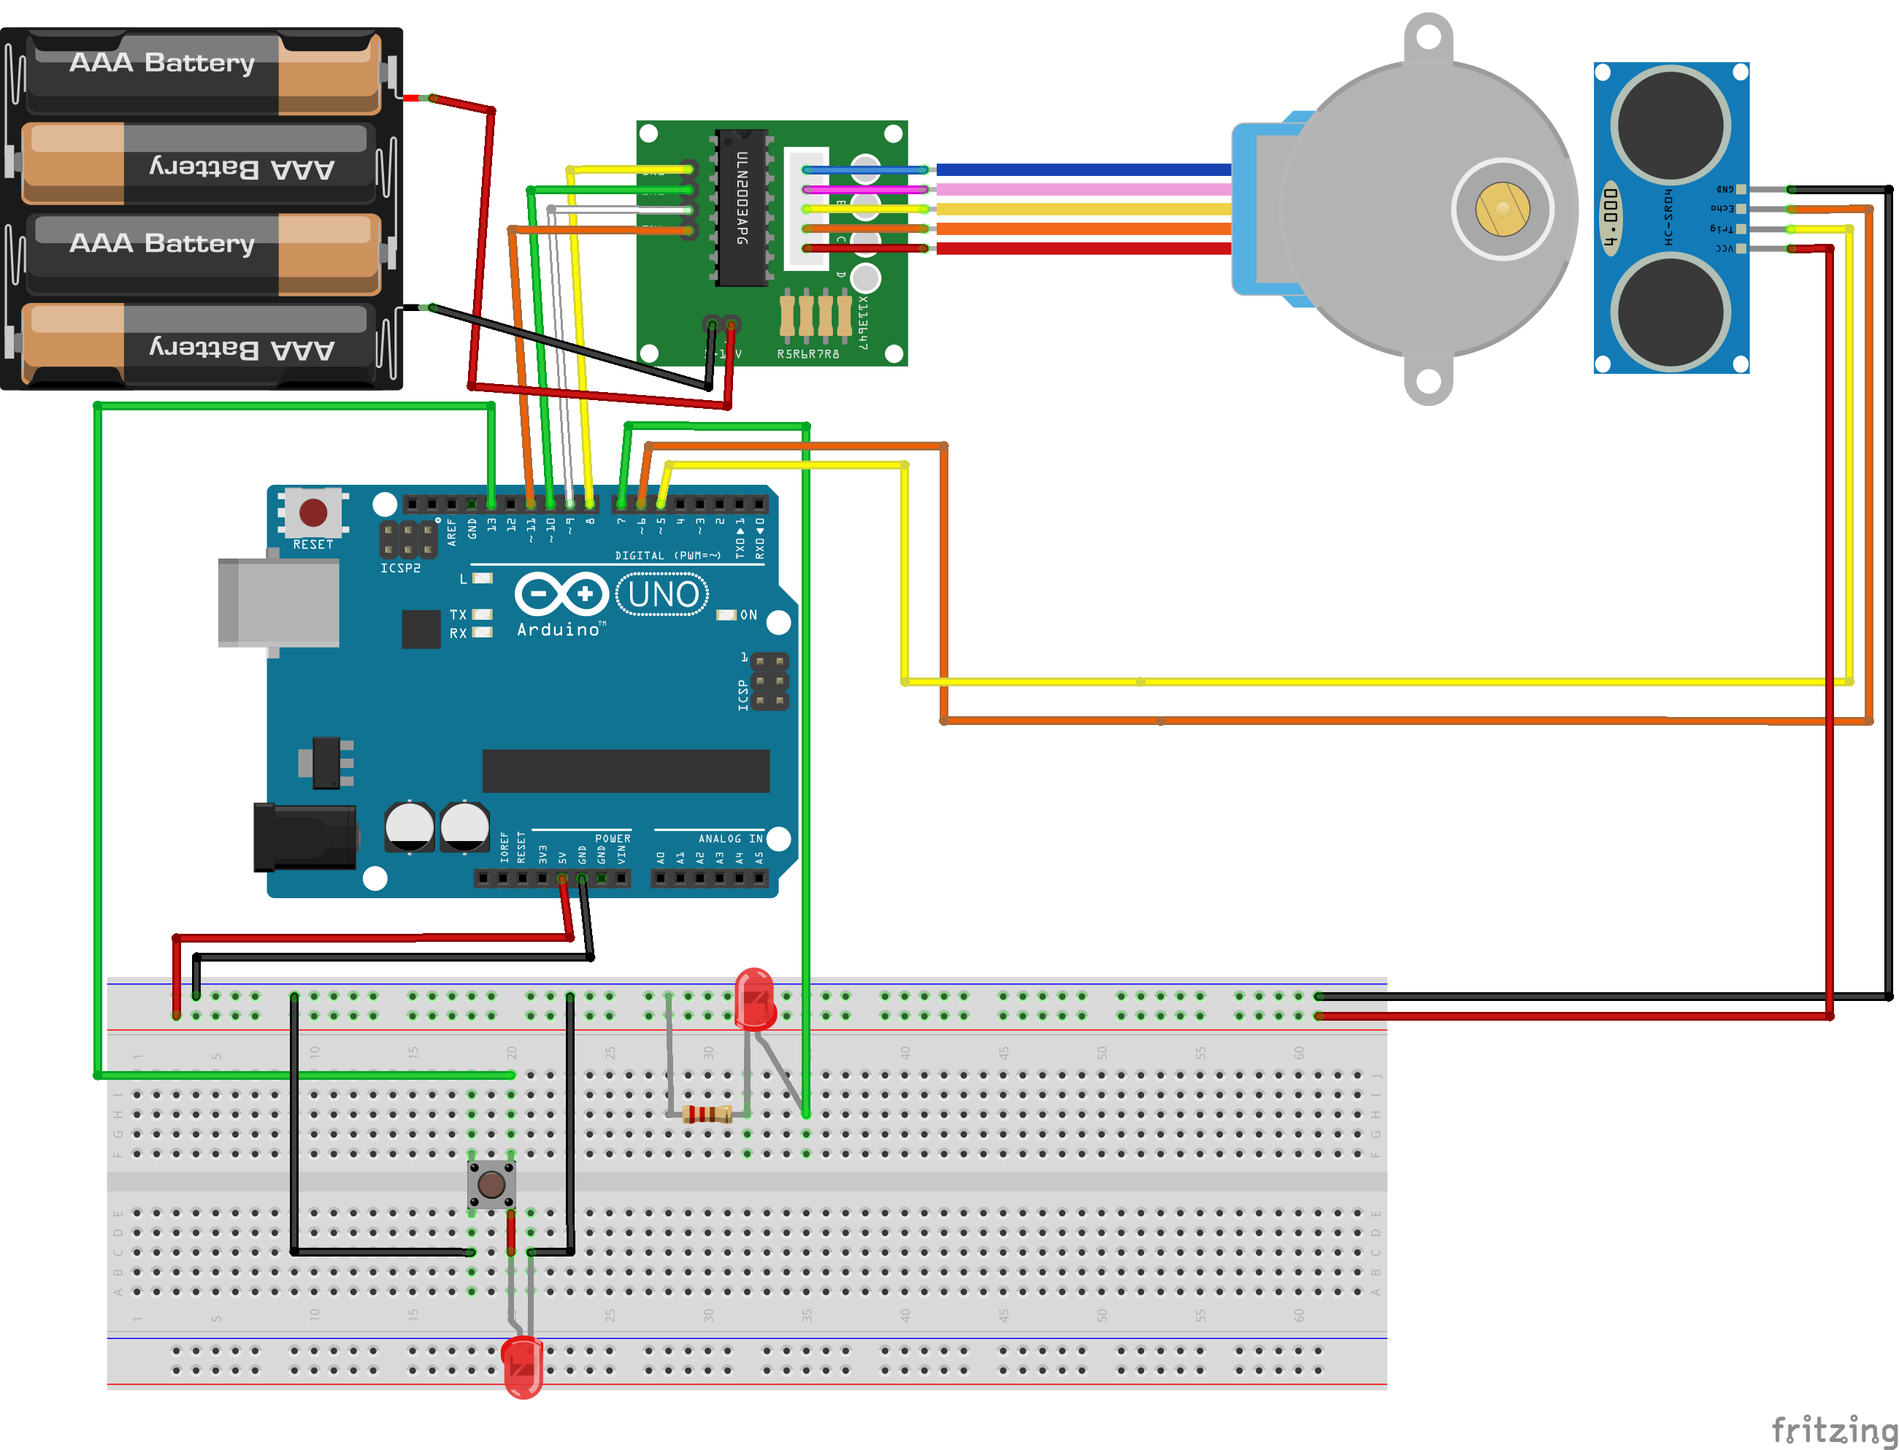
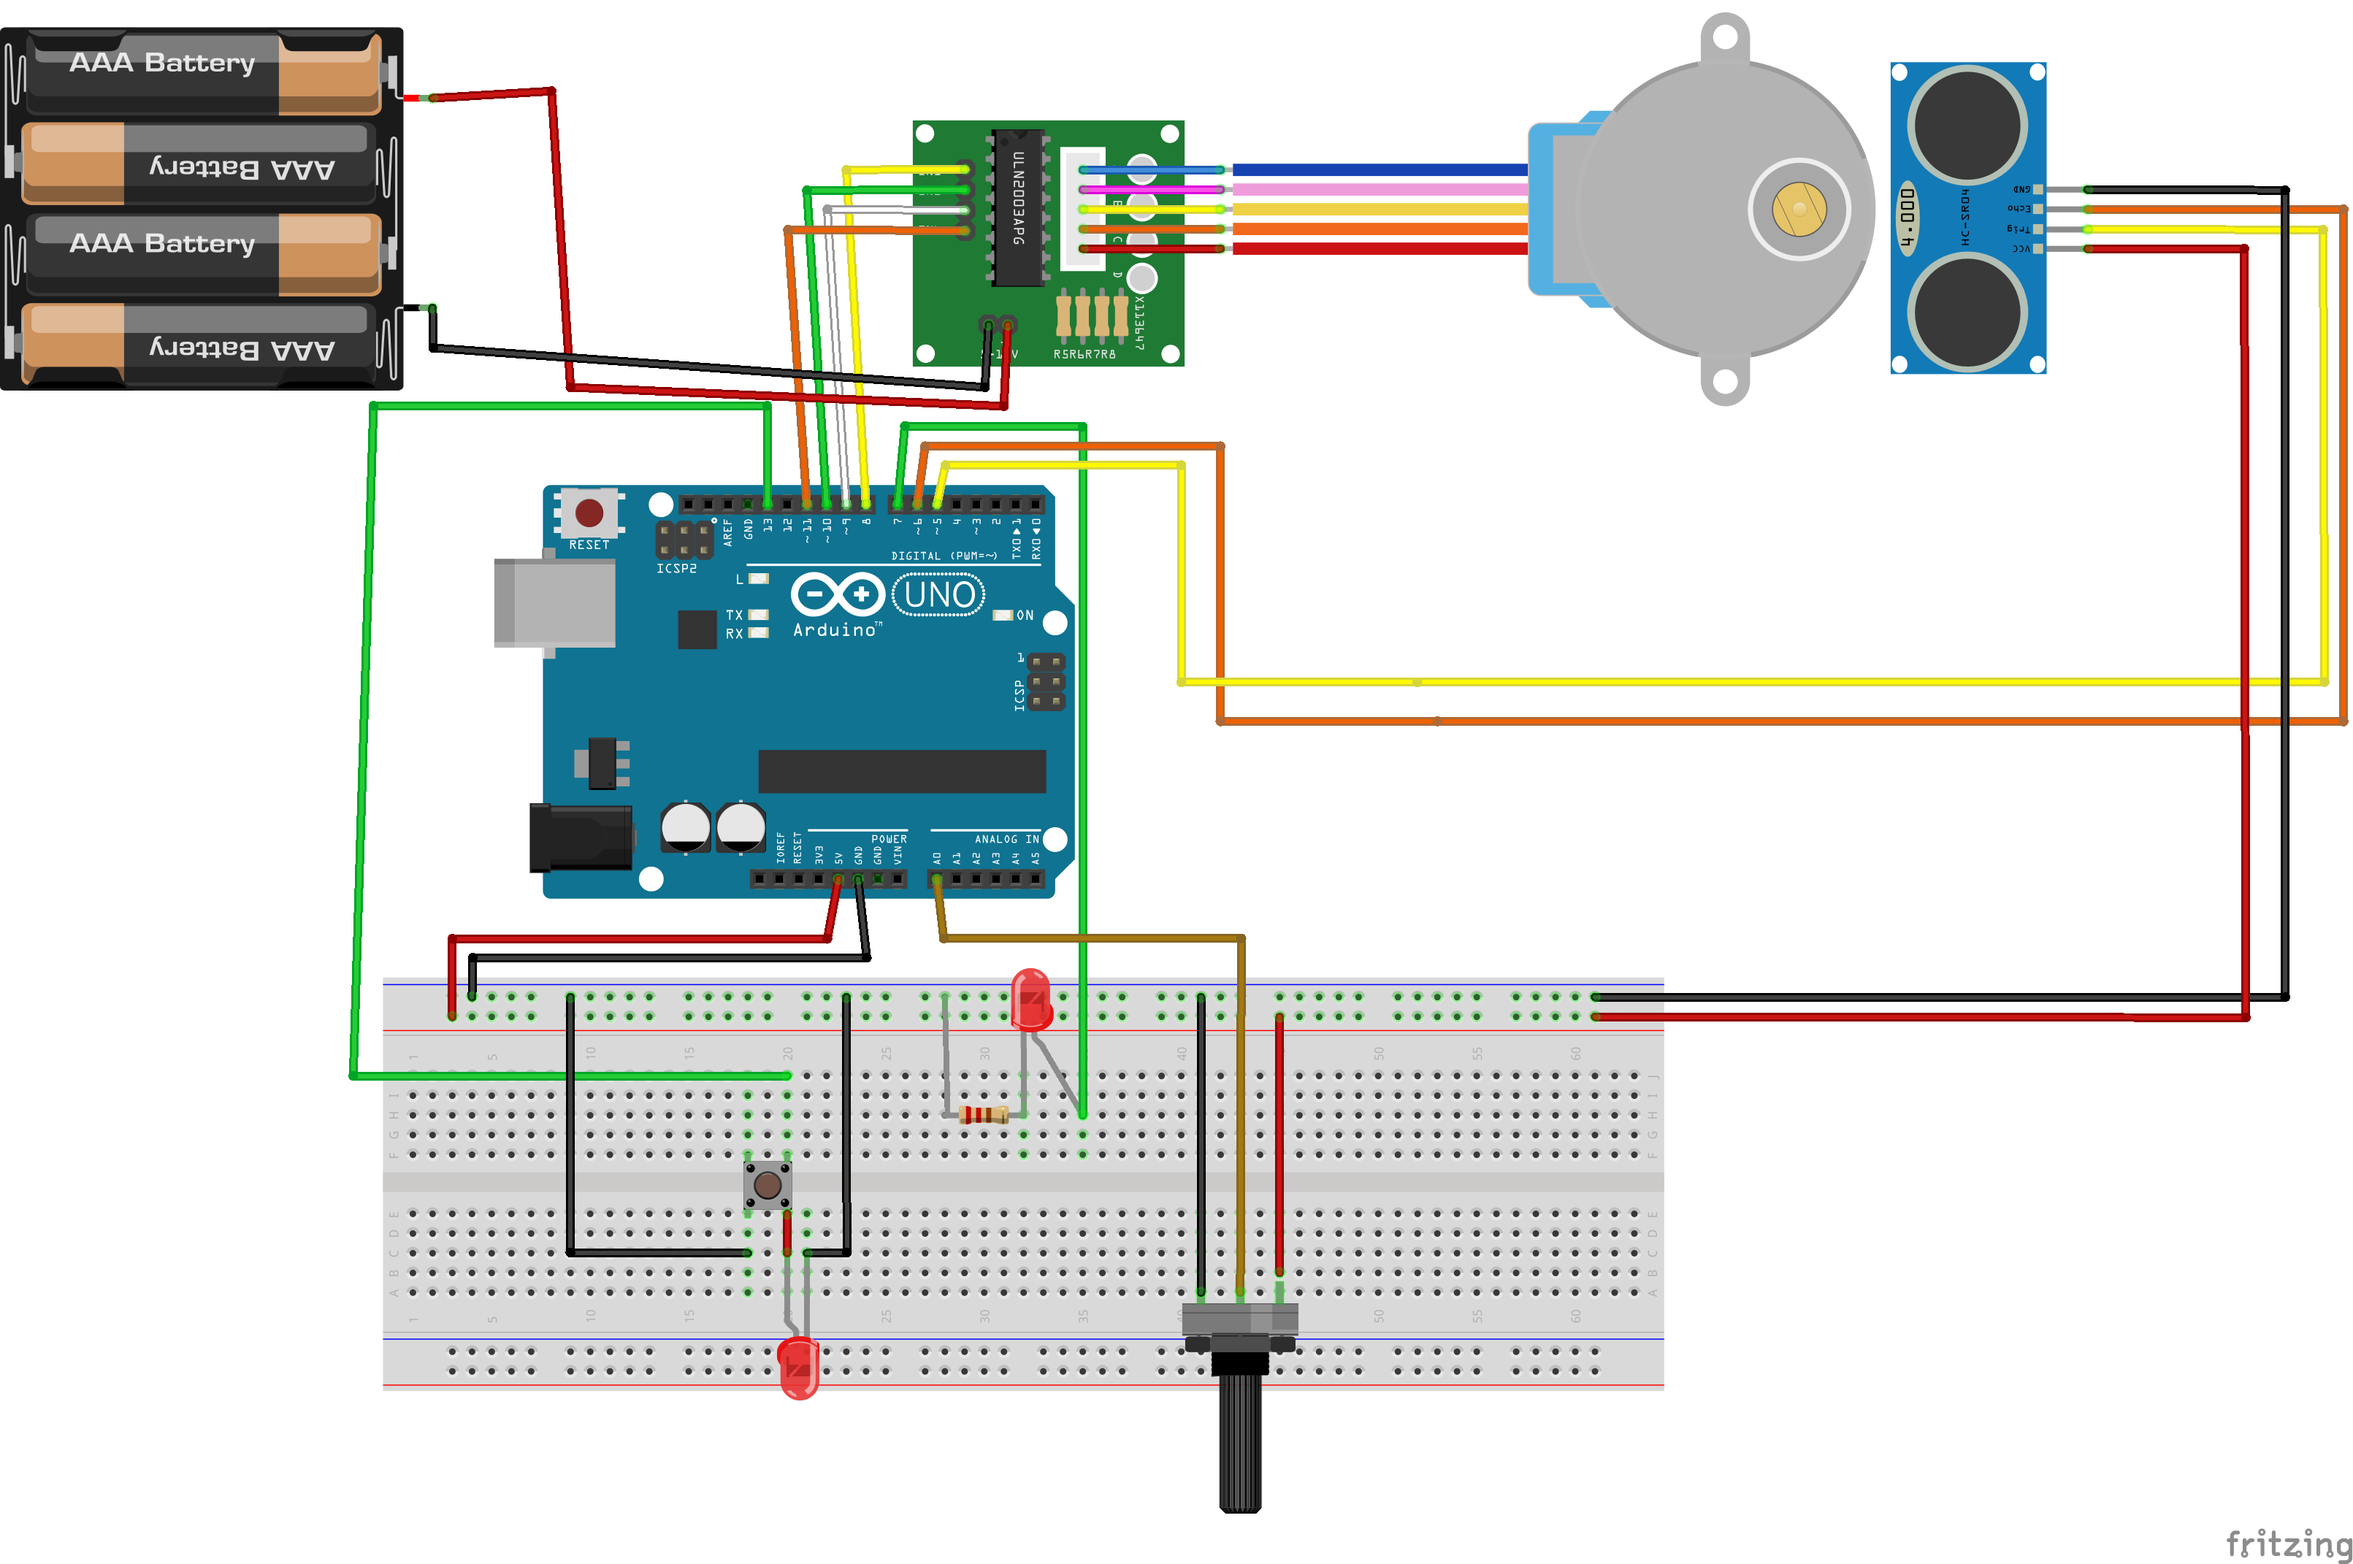
[ADD] potentiometer to change sonar speed

diff --git a/src/qsb_serailreader.cpp b/src/qsb_serailreader.cpp
@@ -121,7 +121,7 @@ bool QsbSerailReader::readData(int timeout)
            numberInvalidReads = 0;
            bufferData[sizeBuffer] = c;
            sizeBuffer++;
-           fprintf(stdout, "%c", c);
+           // fprintf(stdout, "%c", c);
        }
 
        if ( ret < 0 ) {
@@ -132,7 +132,7 @@ bool QsbSerailReader::readData(int timeout)
            // exit(EXIT_FAILURE);
        }
        if ( c == '\n' ) {
-           // fprintf(stdout, "::W::\n");
+           // fprintf(stdout, "%s\n", bufferData);
            return true;
        }
 

diff --git a/README.md b/README.md
@@ -15,6 +15,7 @@ Follow the (incomplete) fritzing schema.
  - the motor is connected to and external Power supply 
  - mount on the stepper monitor the Ultrasonic Sensor 
  - adjust the parameters to your environment, for example steps pro revolutions speed ... 
+ - use the potentiometer to incerase or decrease the speed of revolution.
 
 Build and run the Qt radar.
 
